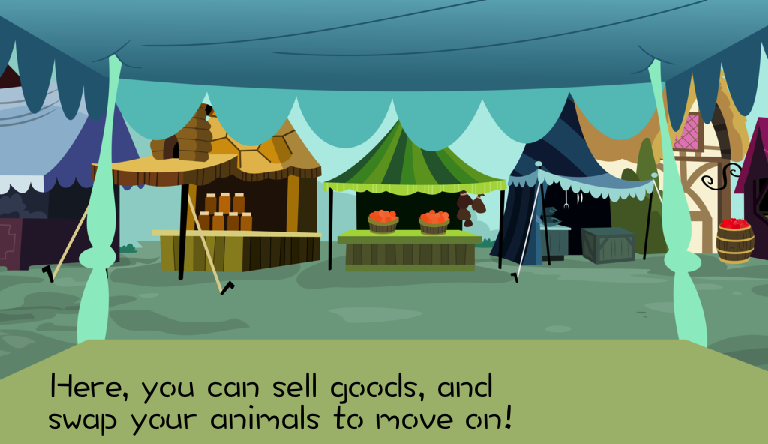
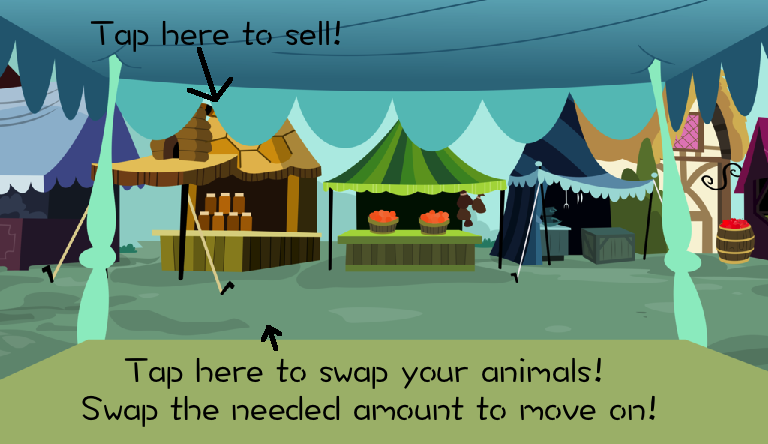
Tutorial text changes, market animal buttons moved up

Changed region(s): [[0.0625, 0.7905, 0.875, 0.9662], [0.125, 0.0293, 0.4688, 0.2342], [0.3438, 0.732, 0.375, 0.7905]]

diff --git a/core/src/com/tgco/animalBook/screens/TutorialMarketScreen.java b/core/src/com/tgco/animalBook/screens/TutorialMarketScreen.java
@@ -103,9 +103,9 @@ public class TutorialMarketScreen extends ButtonScreenAdapter implements Screen 
 			font.draw(batch, "Your Money: $" + String.valueOf(tutorialScreen.getWorld().getPlayer().getPlayerMoney()), Gdx.graphics.getWidth()/2 , Gdx.graphics.getHeight() - 3*EDGE_TOLERANCE );
 
 			font.setColor(Color.WHITE);
-			font.draw(batch, String.valueOf(storedAnimal), Gdx.graphics.getWidth()/3 - BUTTON_WIDTH/2, Gdx.graphics.getHeight()/3 - BUTTON_HEIGHT - EDGE_TOLERANCE);
-			font.draw(batch, String.valueOf(nextLevel), Gdx.graphics.getWidth()/1.5f - BUTTON_WIDTH/2, Gdx.graphics.getHeight()/3 - BUTTON_HEIGHT - EDGE_TOLERANCE);
-			font.draw(batch, needAnimalsString, Gdx.graphics.getWidth()/2 - (needAnimalsString.length()*5f)/2, Gdx.graphics.getHeight()/3 - BUTTON_HEIGHT - EDGE_TOLERANCE - font.getCapHeight());
+			font.draw(batch, String.valueOf(storedAnimal), Gdx.graphics.getWidth()/3 - BUTTON_WIDTH/2, Gdx.graphics.getHeight()/3 - EDGE_TOLERANCE);
+			font.draw(batch, String.valueOf(nextLevel), Gdx.graphics.getWidth()/1.5f - BUTTON_WIDTH/2, Gdx.graphics.getHeight()/3 - EDGE_TOLERANCE);
+			font.draw(batch, needAnimalsString, Gdx.graphics.getWidth()/2 - (needAnimalsString.length()*5f)/2, Gdx.graphics.getHeight()/3 - EDGE_TOLERANCE - font.getCapHeight());
 
 			batch.end();
 
@@ -247,7 +247,7 @@ public class TutorialMarketScreen extends ButtonScreenAdapter implements Screen 
 		levelAnimalButton.setWidth(BUTTON_WIDTH);
 		levelAnimalButton.setHeight(BUTTON_HEIGHT);
 		levelAnimalButton.setX(Gdx.graphics.getWidth()/3 - BUTTON_WIDTH/2);
-		levelAnimalButton.setY(Gdx.graphics.getHeight()/3 - BUTTON_HEIGHT - EDGE_TOLERANCE);
+		levelAnimalButton.setY(Gdx.graphics.getHeight()/3 - EDGE_TOLERANCE);
 
 		//NEXT LEVEL ANIMAL BUTTON
 		atlas = new TextureAtlas(gameInstance.getLevelHandler().nextLevelTexture());
@@ -262,7 +262,7 @@ public class TutorialMarketScreen extends ButtonScreenAdapter implements Screen 
 		nextLevelAnimalButton.setWidth(BUTTON_WIDTH);
 		nextLevelAnimalButton.setHeight(BUTTON_HEIGHT);
 		nextLevelAnimalButton.setX(Gdx.graphics.getWidth()/1.5f - BUTTON_WIDTH/2);
-		nextLevelAnimalButton.setY(Gdx.graphics.getHeight()/3 - BUTTON_HEIGHT - EDGE_TOLERANCE);
+		nextLevelAnimalButton.setY(Gdx.graphics.getHeight()/3 - EDGE_TOLERANCE);
 
 		//LISTENERS
 		playButton.addListener(new InputListener() {

diff --git a/core/src/com/tgco/animalBook/screens/MarketScreen.java b/core/src/com/tgco/animalBook/screens/MarketScreen.java
@@ -107,9 +107,9 @@ public class MarketScreen extends ButtonScreenAdapter implements Screen {
 			font.draw(batch, "Your Money: $" + String.valueOf(gameScreen.getWorld().getPlayer().getPlayerMoney()), Gdx.graphics.getWidth()/2 , Gdx.graphics.getHeight() - 3*EDGE_TOLERANCE );
 
 			font.setColor(Color.WHITE);
-			font.draw(batch, String.valueOf(storedAnimal), Gdx.graphics.getWidth()/3 - BUTTON_WIDTH/2, Gdx.graphics.getHeight()/3 - BUTTON_HEIGHT - EDGE_TOLERANCE);
-			font.draw(batch, String.valueOf(nextLevel), Gdx.graphics.getWidth()/1.5f - BUTTON_WIDTH/2, Gdx.graphics.getHeight()/3 - BUTTON_HEIGHT - EDGE_TOLERANCE);
-			font.draw(batch, needAnimalsString, Gdx.graphics.getWidth()/2 - (needAnimalsString.length()*5f)/2, Gdx.graphics.getHeight()/3 - BUTTON_HEIGHT - EDGE_TOLERANCE - font.getCapHeight());
+			font.draw(batch, String.valueOf(storedAnimal), Gdx.graphics.getWidth()/3 - BUTTON_WIDTH/2, Gdx.graphics.getHeight()/3 - EDGE_TOLERANCE);
+			font.draw(batch, String.valueOf(nextLevel), Gdx.graphics.getWidth()/1.5f - BUTTON_WIDTH/2, Gdx.graphics.getHeight()/3 - EDGE_TOLERANCE);
+			font.draw(batch, needAnimalsString, Gdx.graphics.getWidth()/2 - (needAnimalsString.length()*5f)/2, Gdx.graphics.getHeight()/3 - EDGE_TOLERANCE - font.getCapHeight());
 
 			batch.end();
 
@@ -288,7 +288,7 @@ public class MarketScreen extends ButtonScreenAdapter implements Screen {
 		levelAnimalButton.setWidth(BUTTON_WIDTH);
 		levelAnimalButton.setHeight(BUTTON_HEIGHT);
 		levelAnimalButton.setX(Gdx.graphics.getWidth()/3 - BUTTON_WIDTH/2);
-		levelAnimalButton.setY(Gdx.graphics.getHeight()/3 - BUTTON_HEIGHT - EDGE_TOLERANCE);
+		levelAnimalButton.setY(Gdx.graphics.getHeight()/3 - EDGE_TOLERANCE);
 
 		//NEXT LEVEL ANIMAL BUTTON
 		atlas = new TextureAtlas(gameInstance.getLevelHandler().nextLevelTexture());
@@ -303,7 +303,7 @@ public class MarketScreen extends ButtonScreenAdapter implements Screen {
 		nextLevelAnimalButton.setWidth(BUTTON_WIDTH);
 		nextLevelAnimalButton.setHeight(BUTTON_HEIGHT);
 		nextLevelAnimalButton.setX(Gdx.graphics.getWidth()/1.5f - BUTTON_WIDTH/2);
-		nextLevelAnimalButton.setY(Gdx.graphics.getHeight()/3 - BUTTON_HEIGHT - EDGE_TOLERANCE);
+		nextLevelAnimalButton.setY(Gdx.graphics.getHeight()/3 - EDGE_TOLERANCE);
 
 		//LISTENERS
 		nextLevelButton.addListener(new InputListener() {
